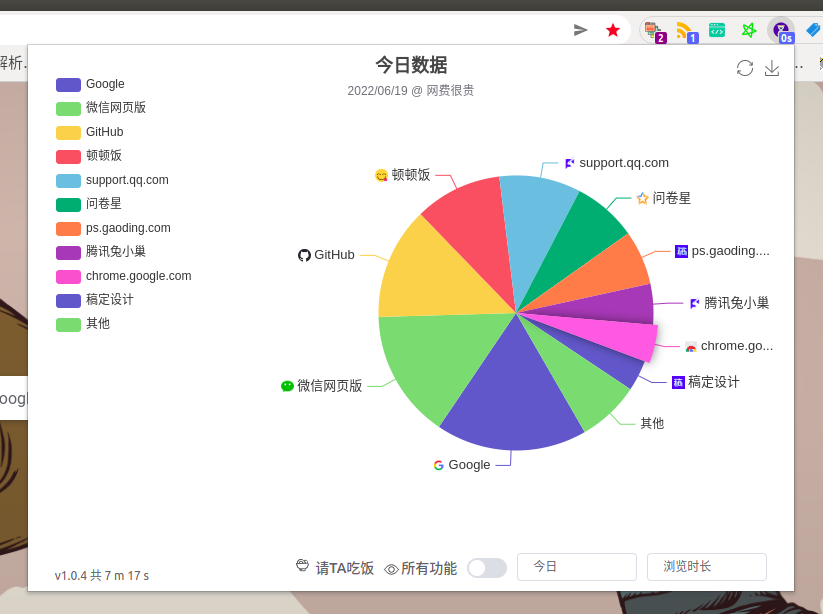
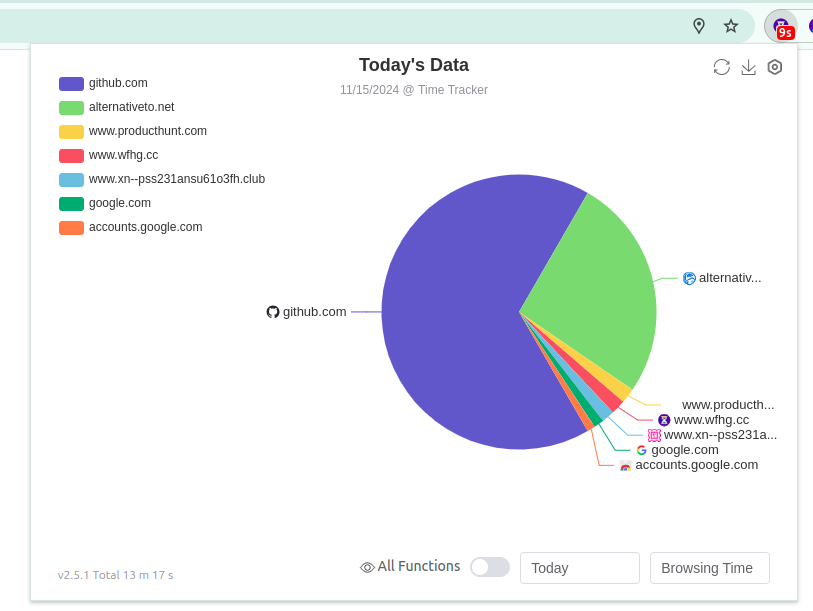
Update screenshots

diff --git a/README.md b/README.md
@@ -10,18 +10,27 @@
 
 Time Tracker is a browser extension to track the time you spent on all websites. It's built by webpack, TypeScript and Element-plus. And you can install it for Firefox, Chrome and Edge.
 
-Time Tracker can
+## Screenshots
 
--   help you count the time you browsing and the visit count on each website.
--   help you count the time you read local files with browsers.
--   help you analyze your browsing habit by time period and display it as a histogram.
--   support whitelist to filter out websites that need not stat.
--   combine statistics result of multiple sites, and supports to customize the rules of combination.
--   support to set the maximum time for browsing a specific website each day to help you key away from time wasting.
--   support to export files formatted _.csv_ and _.json_.
--   support dark mode.
--   support to sync data with GitHub Gist across several browser clients.
--   support to count the time of any URLs described by Ant Expressions, e.g. github.com/sheepzh/timer/\*\*
+<div align="center">
+    <img src="./doc/screenshot/popup.png" width="100%">
+    <p>Pie Chart on the Popup Page</p>
+</div>
+
+<div align="center">
+    <img src="./doc/screenshot/app.png" width="100%">
+    <p>Dashboard</p>
+</div>
+
+<div align="center">
+    <img src="./doc/screenshot/analyze.png" width="100%">
+    <p>Analytical Report</p>
+</div>
+
+<div align="center">
+    <img src="./doc/screenshot/habit.png" width="100%">
+    <p>Habit Report</p>
+</div>
 
 ## Install
 
